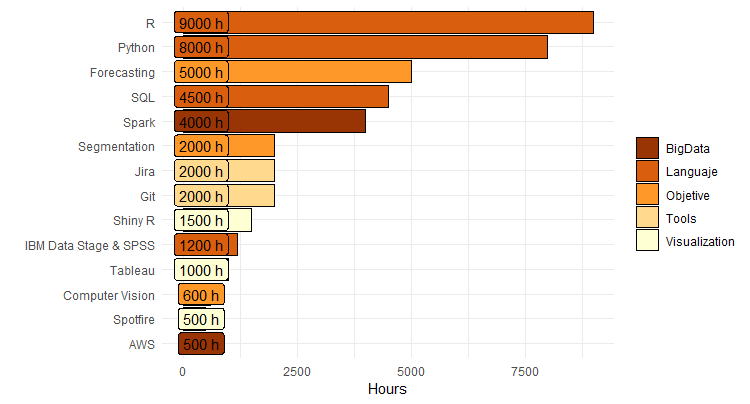
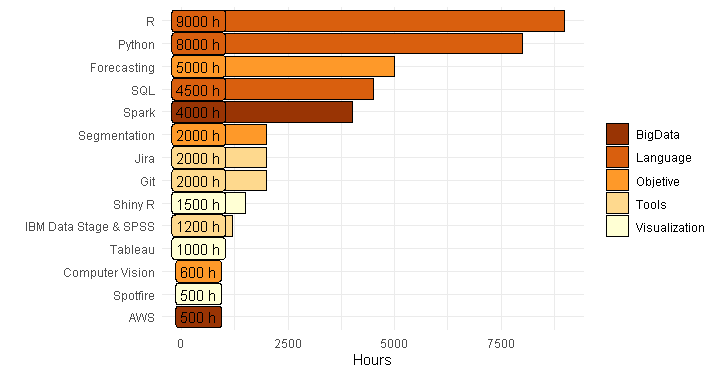
skills-chart-typo

diff --git a/public/vizs-and-tips/skills-chart/index.html b/public/vizs-and-tips/skills-chart/index.html
@@ -352,8 +352,6 @@
 
   
   
-    
-  
 
 
 <div class="article-container pt-3">
@@ -516,9 +514,9 @@
 </div>
 
 
-<div class="article-header article-container featured-image-wrapper mt-4 mb-4" style="max-width: 720px; max-height: 388px;">
+<div class="article-header article-container featured-image-wrapper mt-4 mb-4" style="max-width: 720px; max-height: 375px;">
   <div style="position: relative">
-    <img src="/vizs-and-tips/skills-chart/featured_hu18abb953ae4c93b4d9b987b7809617f6_10134_720x0_resize_lanczos_2.png" alt="" class="featured-image">
+    <img src="/vizs-and-tips/skills-chart/featured.png" alt="" class="featured-image">
     
   </div>
 </div>
@@ -602,16 +600,16 @@ code span.wa { color: #8f5902; font-weight: bold; font-style: italic; } /* Warni
 <a class="sourceLine" id="cb1-6" title="6">skills &lt;-<span class="st"> </span><span class="kw">tribble</span>(</a>
 <a class="sourceLine" id="cb1-7" title="7">    <span class="op">~</span><span class="st"> </span>Skill, <span class="op">~</span><span class="st"> </span>Hours, <span class="op">~</span><span class="st"> </span>Class,</a>
 <a class="sourceLine" id="cb1-8" title="8">    <span class="st">&quot;AWS&quot;</span>, <span class="dv">500</span>, <span class="st">&quot;BigData&quot;</span>,</a>
-<a class="sourceLine" id="cb1-9" title="9">    <span class="st">&quot;Python&quot;</span>, <span class="dv">8000</span>, <span class="st">&quot;Languaje&quot;</span>,</a>
+<a class="sourceLine" id="cb1-9" title="9">    <span class="st">&quot;Python&quot;</span>, <span class="dv">8000</span>, <span class="st">&quot;Language&quot;</span>,</a>
 <a class="sourceLine" id="cb1-10" title="10">    <span class="st">&quot;Spark&quot;</span>, <span class="dv">4000</span>, <span class="st">&quot;BigData&quot;</span>,</a>
-<a class="sourceLine" id="cb1-11" title="11">    <span class="st">&quot;R&quot;</span>, <span class="dv">9000</span>, <span class="st">&quot;Languaje&quot;</span>,</a>
+<a class="sourceLine" id="cb1-11" title="11">    <span class="st">&quot;R&quot;</span>, <span class="dv">9000</span>, <span class="st">&quot;Language&quot;</span>,</a>
 <a class="sourceLine" id="cb1-12" title="12">    <span class="st">&quot;Git&quot;</span>, <span class="dv">2000</span>, <span class="st">&quot;Tools&quot;</span>,</a>
 <a class="sourceLine" id="cb1-13" title="13">    <span class="st">&quot;Jira&quot;</span>, <span class="dv">2000</span>, <span class="st">&quot;Tools&quot;</span>,</a>
 <a class="sourceLine" id="cb1-14" title="14">    <span class="st">&quot;Forecasting&quot;</span>, <span class="dv">5000</span>, <span class="st">&quot;Objetive&quot;</span>,</a>
 <a class="sourceLine" id="cb1-15" title="15">    <span class="st">&quot;Segmentation&quot;</span>, <span class="dv">2000</span>, <span class="st">&quot;Objetive&quot;</span>,</a>
 <a class="sourceLine" id="cb1-16" title="16">    <span class="st">&quot;Computer Vision&quot;</span>, <span class="dv">600</span>, <span class="st">&quot;Objetive&quot;</span>,</a>
-<a class="sourceLine" id="cb1-17" title="17">    <span class="st">&quot;SQL&quot;</span>, <span class="dv">4500</span>, <span class="st">&quot;Languaje&quot;</span>,</a>
-<a class="sourceLine" id="cb1-18" title="18">    <span class="st">&quot;IBM Data Stage &amp; SPSS&quot;</span>, <span class="dv">1200</span>, <span class="st">&quot;Languaje&quot;</span>,</a>
+<a class="sourceLine" id="cb1-17" title="17">    <span class="st">&quot;SQL&quot;</span>, <span class="dv">4500</span>, <span class="st">&quot;Language&quot;</span>,</a>
+<a class="sourceLine" id="cb1-18" title="18">    <span class="st">&quot;IBM Data Stage &amp; SPSS&quot;</span>, <span class="dv">1200</span>, <span class="st">&quot;Tools&quot;</span>,</a>
 <a class="sourceLine" id="cb1-19" title="19">    <span class="st">&quot;Shiny R&quot;</span>, <span class="dv">1500</span>, <span class="st">&quot;Visualization&quot;</span>,</a>
 <a class="sourceLine" id="cb1-20" title="20">    <span class="st">&quot;Tableau&quot;</span>, <span class="dv">1000</span>, <span class="st">&quot;Visualization&quot;</span>,</a>
 <a class="sourceLine" id="cb1-21" title="21">    <span class="st">&quot;Spotfire&quot;</span>, <span class="dv">500</span>, <span class="st">&quot;Visualization&quot;</span></a>

diff --git a/content/vizs-and-tips/skills_chart/index.html b/content/vizs-and-tips/skills_chart/index.html
@@ -91,16 +91,16 @@ code span.wa { color: #8f5902; font-weight: bold; font-style: italic; } /* Warni
 <a class="sourceLine" id="cb1-6" title="6">skills &lt;-<span class="st"> </span><span class="kw">tribble</span>(</a>
 <a class="sourceLine" id="cb1-7" title="7">    <span class="op">~</span><span class="st"> </span>Skill, <span class="op">~</span><span class="st"> </span>Hours, <span class="op">~</span><span class="st"> </span>Class,</a>
 <a class="sourceLine" id="cb1-8" title="8">    <span class="st">&quot;AWS&quot;</span>, <span class="dv">500</span>, <span class="st">&quot;BigData&quot;</span>,</a>
-<a class="sourceLine" id="cb1-9" title="9">    <span class="st">&quot;Python&quot;</span>, <span class="dv">8000</span>, <span class="st">&quot;Languaje&quot;</span>,</a>
+<a class="sourceLine" id="cb1-9" title="9">    <span class="st">&quot;Python&quot;</span>, <span class="dv">8000</span>, <span class="st">&quot;Language&quot;</span>,</a>
 <a class="sourceLine" id="cb1-10" title="10">    <span class="st">&quot;Spark&quot;</span>, <span class="dv">4000</span>, <span class="st">&quot;BigData&quot;</span>,</a>
-<a class="sourceLine" id="cb1-11" title="11">    <span class="st">&quot;R&quot;</span>, <span class="dv">9000</span>, <span class="st">&quot;Languaje&quot;</span>,</a>
+<a class="sourceLine" id="cb1-11" title="11">    <span class="st">&quot;R&quot;</span>, <span class="dv">9000</span>, <span class="st">&quot;Language&quot;</span>,</a>
 <a class="sourceLine" id="cb1-12" title="12">    <span class="st">&quot;Git&quot;</span>, <span class="dv">2000</span>, <span class="st">&quot;Tools&quot;</span>,</a>
 <a class="sourceLine" id="cb1-13" title="13">    <span class="st">&quot;Jira&quot;</span>, <span class="dv">2000</span>, <span class="st">&quot;Tools&quot;</span>,</a>
 <a class="sourceLine" id="cb1-14" title="14">    <span class="st">&quot;Forecasting&quot;</span>, <span class="dv">5000</span>, <span class="st">&quot;Objetive&quot;</span>,</a>
 <a class="sourceLine" id="cb1-15" title="15">    <span class="st">&quot;Segmentation&quot;</span>, <span class="dv">2000</span>, <span class="st">&quot;Objetive&quot;</span>,</a>
 <a class="sourceLine" id="cb1-16" title="16">    <span class="st">&quot;Computer Vision&quot;</span>, <span class="dv">600</span>, <span class="st">&quot;Objetive&quot;</span>,</a>
-<a class="sourceLine" id="cb1-17" title="17">    <span class="st">&quot;SQL&quot;</span>, <span class="dv">4500</span>, <span class="st">&quot;Languaje&quot;</span>,</a>
-<a class="sourceLine" id="cb1-18" title="18">    <span class="st">&quot;IBM Data Stage &amp; SPSS&quot;</span>, <span class="dv">1200</span>, <span class="st">&quot;Languaje&quot;</span>,</a>
+<a class="sourceLine" id="cb1-17" title="17">    <span class="st">&quot;SQL&quot;</span>, <span class="dv">4500</span>, <span class="st">&quot;Language&quot;</span>,</a>
+<a class="sourceLine" id="cb1-18" title="18">    <span class="st">&quot;IBM Data Stage &amp; SPSS&quot;</span>, <span class="dv">1200</span>, <span class="st">&quot;Tools&quot;</span>,</a>
 <a class="sourceLine" id="cb1-19" title="19">    <span class="st">&quot;Shiny R&quot;</span>, <span class="dv">1500</span>, <span class="st">&quot;Visualization&quot;</span>,</a>
 <a class="sourceLine" id="cb1-20" title="20">    <span class="st">&quot;Tableau&quot;</span>, <span class="dv">1000</span>, <span class="st">&quot;Visualization&quot;</span>,</a>
 <a class="sourceLine" id="cb1-21" title="21">    <span class="st">&quot;Spotfire&quot;</span>, <span class="dv">500</span>, <span class="st">&quot;Visualization&quot;</span></a>

diff --git a/public/index.html b/public/index.html
@@ -940,7 +940,7 @@
     
     
     <a href="/vizs-and-tips/skills-chart/" >
-      <img src="/vizs-and-tips/skills-chart/featured_hu18abb953ae4c93b4d9b987b7809617f6_10134_150x0_resize_lanczos_2.png" alt="">
+      <img src="/vizs-and-tips/skills-chart/featured_hud362a366b989f3f355ff03d7b400ca87_5711_150x0_resize_lanczos_2.png" alt="">
     </a>
     
   </div>
